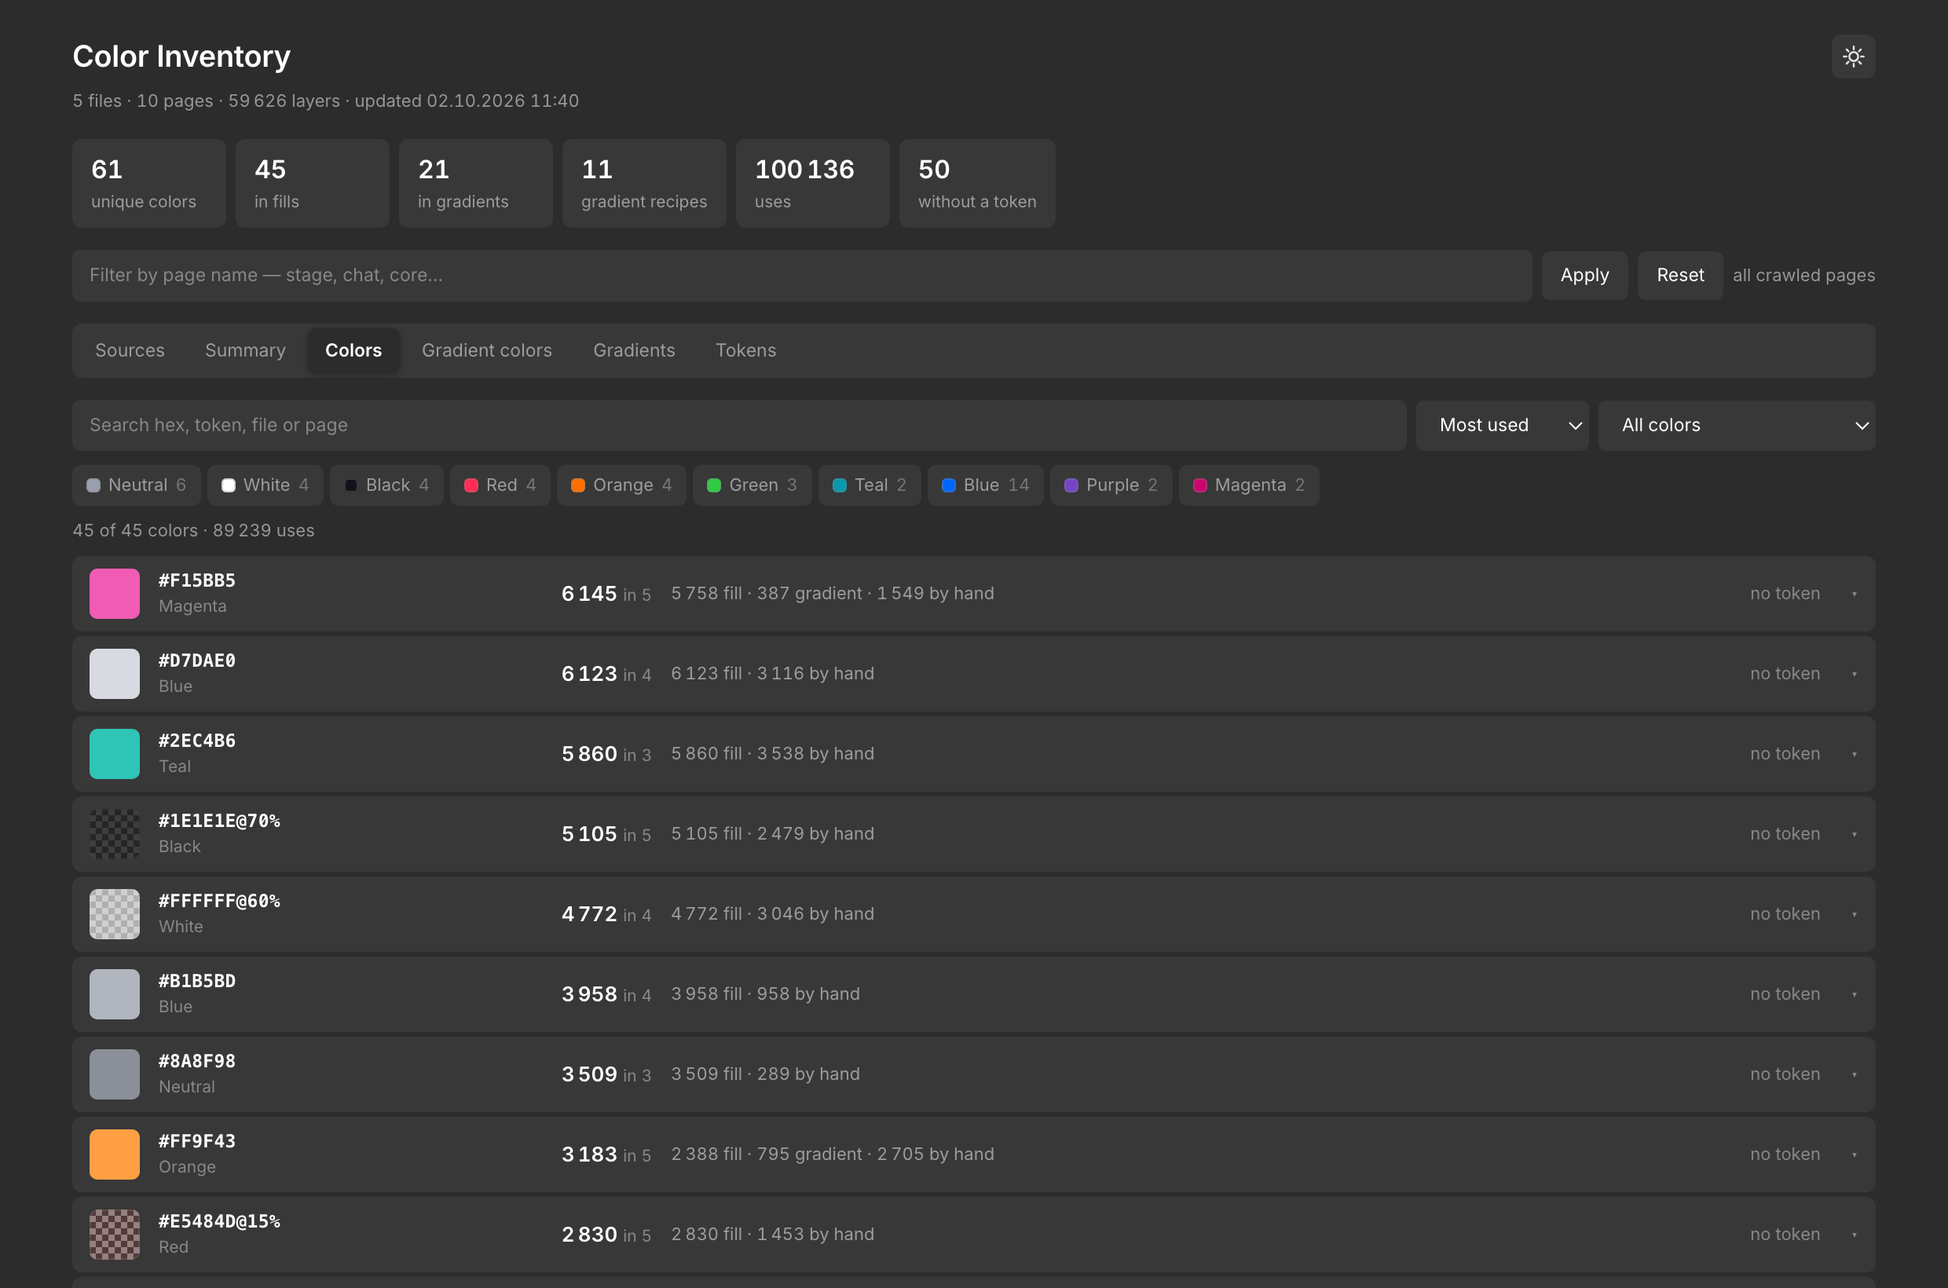
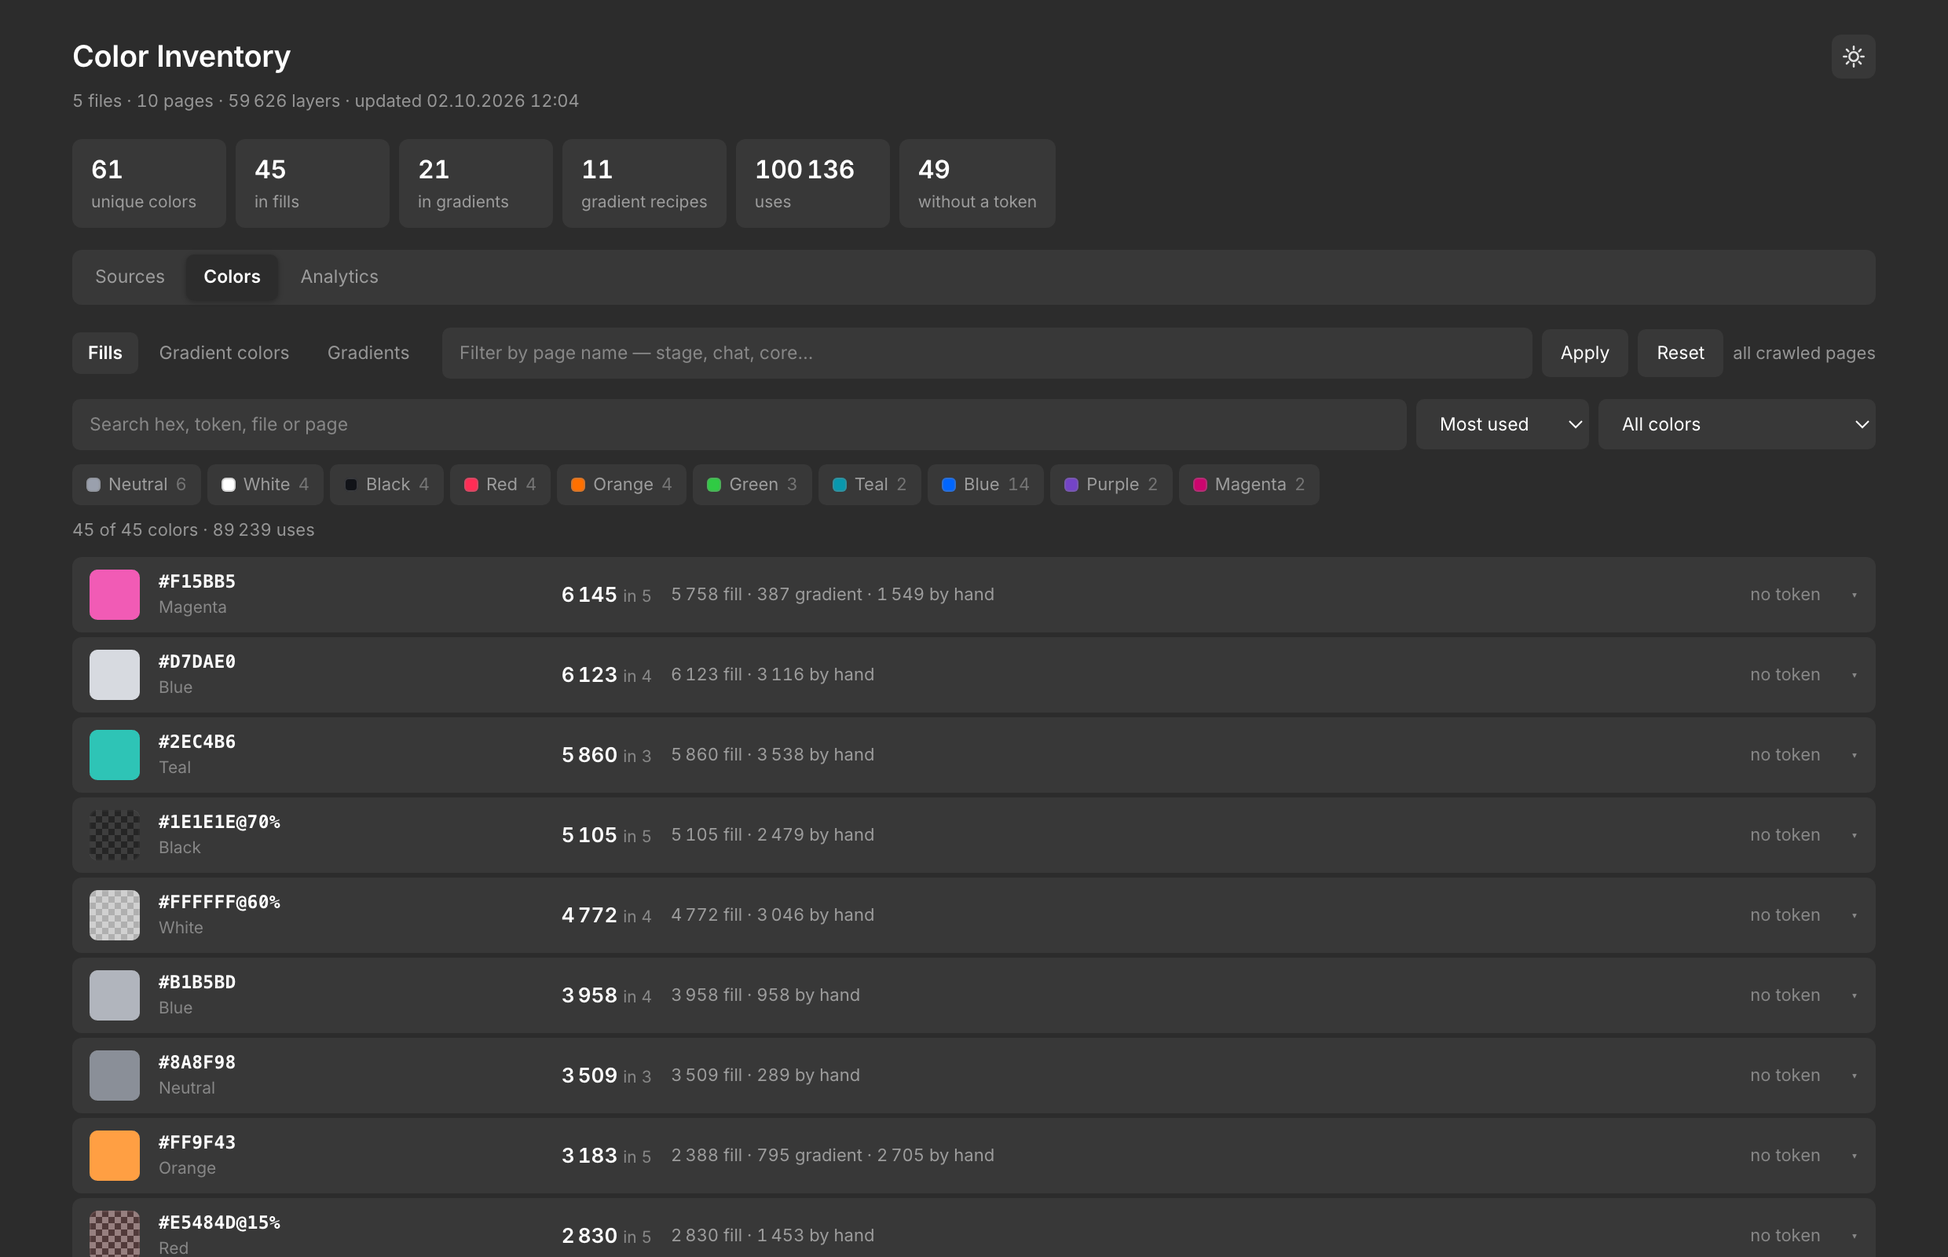
Two-level navigation: Sources / Colors / Analytics, with a stable layout

diff --git a/app.html b/app.html
@@ -69,6 +69,27 @@ h2{font-size:13px;font-weight:600;margin:24px 0 8px;color:var(--txt)}
 .tab:hover{color:var(--txt)}
 .tab.on{background:var(--bg);color:var(--txt);font-weight:600;box-shadow:var(--shadow)}
 .page{display:none}.page.on{display:block}
+/* Первый элемент раздела не должен добавлять свой верхний отступ:
+   иначе разделы начинаются на разной высоте и контент прыгает. */
+.page > :first-child{margin-top:0}
+
+/* Вторая полоса существует всегда, даже когда пустая: её высота зарезервирована,
+   поэтому при переключении верхних вкладок содержимое ниже не сдвигается. */
+.bar2{display:flex;gap:10px;align-items:center;flex-wrap:nowrap;
+  min-height:34px;margin-bottom:12px}
+.tabs.sub{background:none;padding:0;margin:0;flex:none;gap:2px}
+.tabs.sub .tab{font-size:11.5px;padding:5px 10px}
+.tabs.sub .tab.on{background:var(--btn);box-shadow:none}
+.pf{display:flex;gap:6px;align-items:center;flex:1;min-width:0}
+.pf input{flex:1;min-width:120px}
+.pf .note{margin:0;white-space:nowrap;overflow:hidden;text-overflow:ellipsis}
+/* Скрываем видимостью, а не display: место под фильтр остаётся занятым. */
+.bar2.nofilter .pf{visibility:hidden;pointer-events:none}
+
+/* Полоса групп и строка счётчика держат высоту: без этого перенос чипов
+   на вторую строку дёргал бы весь список. */
+.chips{min-height:26px;align-content:flex-start}
+.cnt{min-height:17px}
 
 input[type=search],input[type=text],select{
   background:var(--btn);border:1px solid transparent;color:var(--txt);
@@ -184,16 +205,18 @@ tbody tr:hover td{background:var(--btn)}
   <p class="sub" id="sub">Loading…</p>
   <div class="stats" id="stats"></div>
 
-  <div class="row1" style="margin:0 0 14px">
-    <input type="search" id="pagefilter" placeholder="Filter by page name — stage, chat, core…"
-           title="Limits every tab to pages whose name contains this text. Case-insensitive. Leave empty for all pages."
-           style="flex:1;min-width:240px">
-    <button class="b" id="pfapply">Apply</button>
-    <button class="b" id="pfreset">Reset</button>
-    <span class="note" id="pfnote" style="margin:0"></span>
-  </div>
-
   <div class="tabs" id="tabs"></div>
+
+  <div class="bar2" id="bar2">
+    <div class="tabs sub" id="subtabs"></div>
+    <div class="pf" id="pfbox">
+      <input type="search" id="pagefilter" placeholder="Filter by page name — stage, chat, core…"
+             title="Limits every tab to pages whose name contains this text. Case-insensitive. Leave empty for all pages.">
+      <button class="b" id="pfapply">Apply</button>
+      <button class="b" id="pfreset">Reset</button>
+      <span class="note" id="pfnote"></span>
+    </div>
+  </div>
 
   <div class="page" id="p-summary"></div>
 
@@ -221,7 +244,7 @@ tbody tr:hover td{background:var(--btn)}
     <div id="srclist"></div>
   </div>
 
-  <div class="page" id="p-colors">
+  <div class="page" id="p-fills">
     
     <div class="row1">
       <input type="search" id="q" placeholder="Search hex, token, file or page">
@@ -311,23 +334,52 @@ let D = null, S = null;
 // the Sources tab is removed and the crawl controls are not needed.
 const EMBEDDED = /*__DATA__*/ null;
 
-// Порядок по ходу работы: подключил источники → увидел итог → разобрал по частям → сверил с китом.
-const TABS = [['sources','Sources'],['summary','Summary'],['colors','Colors'],
-              ['gradcolors','Gradient colors'],['grads','Gradients'],['tokens','Tokens']];
-let tab = 'summary';
-$('#tabs').innerHTML = TABS.map(([id,l]) =>
-  `<button class="tab" data-t="${id}" data-label="${l}"><span>${l}</span></button>`).join('');
-$('#tabs').addEventListener('click', e => { const b = e.target.closest('.tab'); if (b) show(b.dataset.t); });
-function show(t){
-  tab = t;
-  // Адрес отражает вкладку: ссылку можно переслать, обновление страницы не сбрасывает её.
-  if (location.hash.slice(1) !== t) history.replaceState(null, '', '#' + t);
-  document.querySelectorAll('.tab').forEach(b => b.classList.toggle('on', b.dataset.t === t));
-  document.querySelectorAll('.page').forEach(p => p.classList.toggle('on', p.id === 'p' + '-' + t));
-  // Срез по страницам режет данные, а не настройки — на вкладке источников он лишний.
-  const pf = $('#pagefilter').closest('.row1');
-  if (pf) pf.style.display = (t === 'sources') ? 'none' : '';
+// Два уровня. Сверху — откуда берём, что смотрим, и аналитика.
+// Снизу — разрезы внутри верхнего раздела.
+const TOP = [['sources','Sources'], ['colors','Colors'], ['analytics','Analytics']];
+const SUB = {
+  sources:   [],
+  colors:    [['fills','Fills'], ['gradcolors','Gradient colors'], ['grads','Gradients']],
+  analytics: [['summary','Summary'], ['tokens','Tokens']],
+};
+// Какому верхнему разделу принадлежит каждая страница.
+const PARENT = {};
+for (const [top, subs] of Object.entries(SUB)) {
+  if (!subs.length) PARENT[top] = top;
+  for (const [id] of subs) PARENT[id] = top;
 }
+// На каких страницах срез по страницам имеет смысл.
+const FILTERABLE = new Set(['fills','gradcolors','grads','summary','tokens']);
+
+let page = 'sources';
+
+function renderTabs(){
+  $('#tabs').innerHTML = TOP.map(([id,l]) =>
+    `<button class="tab" data-top="${id}" data-label="${l}"><span>${l}</span></button>`).join('');
+}
+renderTabs();
+
+function show(p){
+  const top = PARENT[p] || 'sources';
+  page = p;
+  document.querySelectorAll('#tabs .tab').forEach(b => b.classList.toggle('on', b.dataset.top === top));
+  $('#subtabs').innerHTML = SUB[top].map(([id,l]) =>
+    `<button class="tab" data-p="${id}" data-label="${l}"><span>${l}</span></button>`).join('');
+  document.querySelectorAll('#subtabs .tab').forEach(b => b.classList.toggle('on', b.dataset.p === p));
+  document.querySelectorAll('.page').forEach(el => el.classList.toggle('on', el.id === 'p-' + p));
+  $('#bar2').classList.toggle('nofilter', !FILTERABLE.has(p));
+  // Адрес отражает страницу: ссылку можно переслать, обновление её не сбрасывает.
+  if (location.hash.slice(1) !== p) history.replaceState(null, '', '#' + p);
+}
+
+$('#tabs').addEventListener('click', e => {
+  const b = e.target.closest('.tab'); if (!b) return;
+  const top = b.dataset.top;
+  show(SUB[top].length ? SUB[top][0][0] : top);   // верхняя вкладка открывает свой первый разрез
+});
+$('#subtabs').addEventListener('click', e => {
+  const b = e.target.closest('.tab'); if (b) show(b.dataset.p);
+});
 
 async function api(path, body){
   const o = body ? {method:'POST', headers:{'Content-Type':'application/json'}, body:JSON.stringify(body)} : {};
@@ -663,19 +715,20 @@ async function poll(){
 (async () => {
   if (EMBEDDED) {
     // Shareable report: no sources, no crawling — data only.
-    document.querySelector('[data-t="sources"]').remove();
-    document.querySelector('#p-sources').remove();
-    const pf = document.querySelector('#pagefilter');
-    if (pf) pf.closest('.row1').remove();
+    // Источников и обхода в пересылаемом отчёте нет, срез по страницам тоже не нужен.
+    TOP.splice(TOP.findIndex(t => t[0] === 'sources'), 1);
+    delete SUB.sources; delete PARENT.sources;
+    renderTabs();
+    const box = document.querySelector('#p-sources'); if (box) box.remove();
+    const pf = document.querySelector('#pfbox'); if (pf) pf.remove();
     await loadData();
     const w = location.hash.slice(1);
-    show(TABS.some(([id]) => id === w) && w !== 'sources' ? w : 'summary');
+    show(PARENT[w] ? w : 'fills');
     return;
   }
   await loadData();
-  // Вкладка из адреса, иначе по состоянию: пустая установка открывается на источниках.
   const want = location.hash.slice(1);
-  show(TABS.some(([id]) => id === want) ? want : (D.stats.files ? 'summary' : 'sources'));
+  show(PARENT[want] ? want : (D.stats.files ? 'fills' : 'sources'));
   await poll(); setInterval(poll, 2500);
 })();
 </script>

diff --git a/demo/seed.py b/demo/seed.py
@@ -1,0 +1,96 @@
+# -*- coding: utf-8 -*-
+"""Fills out/ with made-up data so you can try the app without touching Figma.
+
+    python3 demo/seed.py && python3 app.py
+
+Everything here is invented: file names, page names, layer names, colours.
+Delete out/ afterwards to start clean.
+"""
+import json, os, random
+
+BASE = os.path.dirname(os.path.dirname(os.path.abspath(__file__)))
+OUT = BASE + "/out"
+random.seed(11)
+
+# Keys are deliberately not shaped like real Figma keys, so nobody mistakes
+# demo data for a real file and no scanner flags this file as a leak.
+FILES = [
+    ("Marketing site",  "demo-marketing-site", ["Stage 1 — Landing", "Stage 2 — Pricing"]),
+    ("Mobile app",      "demo-mobile-app", ["Stage 1 — Onboarding", "Stage 2 — Feed", "Stage 3 — Profile"]),
+    ("Design system",   "demo-design-system", ["Stage 1 — Foundations", "Stage 2 — Components"]),
+    ("Dashboard",       "demo-dashboard", ["Stage 1 — Overview", "Stage 2 — Reports"]),
+    ("Email templates", "demo-email-templates", ["Stage 1 — Transactional"]),
+]
+LAYERS = ["Button / Primary", "Card background", "Section title", "Divider", "Badge",
+          "Avatar ring", "Input border", "Nav item", "Chart bar", "Tooltip", "Icon",
+          "Table row", "Tag", "Progress track", "Footer link", "Hero panel", "Chip"]
+TOKENS = [("color/text/primary", "#1E1E1E"), ("color/text/secondary", "#6B7280"),
+          ("color/surface/base", "#FFFFFF"), ("color/surface/raised", "#F7F8FA"),
+          ("color/brand/primary", "#0C8CE9"), ("color/brand/hover", "#0A74C2"),
+          ("color/accent/success", "#14AE5C"), ("color/accent/warning", "#FF8A1F"),
+          ("color/accent/danger", "#E5484D"), ("color/border/subtle", "#E4E7EE"),
+          ("color/overlay/dim", "#000000@40%"), ("color/brand/muted", "#C7E2F8")]
+FLAT = [v for _, v in TOKENS] + [
+    "#2C2C2C", "#383838", "#444444", "#5A5F68", "#8A8F98", "#B1B5BD", "#D7DAE0", "#EBEBEB",
+    "#FAFAFA", "#FF5C5C", "#E8604C", "#FF9F43", "#FFC46B", "#FFD166", "#9BD17A", "#2EC4B6",
+    "#4CC9F0", "#2B9BD6", "#7B61FF", "#9B8CFF", "#B388EB", "#F15BB5", "#D64C9A",
+    "#FFFFFF@60%", "#FFFFFF@15%", "#000000@8%", "#1E1E1E@70%", "#6B7280@30%",
+    "#0C8CE9@12%", "#14AE5C@20%", "#E5484D@15%", "#3A3F47", "#C9CDD4"]
+GRAD_ONLY = ["#00BBF9", "#9B5DE5", "#06D6A0", "#EF476F", "#118AB2", "#073B4C", "#FFE066",
+             "#FF8FA3", "#7AE582", "#80FFDB", "#5E60CE", "#FF70A6", "#FFD6A5", "#BDB2FF", "#A0C4FF"]
+GRADS = [["#0C8CE9", "#7B61FF"], ["#FF9F43", "#FFE066"], ["#06D6A0", "#118AB2"],
+         ["#F15BB5", "#9B5DE5"], ["#FFFFFF", "#FFFFFF@0%"], ["#EF476F", "#FF8FA3", "#FFD6A5"],
+         ["#00BBF9", "#5E60CE", "#9B5DE5"], ["#073B4C", "#118AB2"], ["#7AE582", "#80FFDB"],
+         ["#BDB2FF", "#A0C4FF"], ["#FF70A6", "#FFD6A5"]]
+
+def nid(a, b):
+    return "%d:%d" % (a, b)
+
+def layers(n, pi, seed):
+    return [[nid(100 + pi, 1000 + seed * 9 + k), random.choice(LAYERS),
+             random.choice(["RECTANGLE", "FRAME", "TEXT", "ELLIPSE", "VECTOR"]),
+             random.choice(["fill", "stroke"])] for k in range(n)]
+
+os.makedirs(OUT, exist_ok=True)
+for fname, key, pages in FILES:
+    res = {"file": fname, "key": key, "filter": "stage", "pages": [],
+           "skipped": ["Cover", "Local components", "Archive"], "errors": [], "nodes": 0}
+    for pi, pname in enumerate(pages, 1):
+        colors, grads = {}, {}
+        nodes = random.randint(2400, 11000)
+        for ci, hexv in enumerate(random.sample(FLAT, random.randint(16, 26))):
+            flat = random.choice([random.randint(1, 9), random.randint(1, 9),
+                                  random.randint(12, 180), random.randint(200, 2400)])
+            colors[hexv] = {"flat": flat, "grad": 0, "raw": random.randint(0, flat),
+                            "ex": layers(min(flat, random.randint(2, 10)), pi, ci)}
+        for gi, stops in enumerate(random.sample(GRADS, random.randint(3, 5))):
+            n = random.randint(6, 260)
+            grads["→".join(stops)] = {
+                "n": n, "type": "GRADIENT_LINEAR",
+                "ex": [[nid(200 + pi, 2000 + gi * 5 + k), random.choice(LAYERS),
+                        random.choice(["fill", "stroke"])] for k in range(random.randint(2, 7))]}
+            for sv in stops:
+                e = colors.setdefault(sv, {"flat": 0, "grad": 0, "raw": 0, "ex": []})
+                e["grad"] += n
+                e["raw"] += n
+                if len(e["ex"]) < 6:
+                    e["ex"] += layers(2, pi, 500 + gi)
+        for gv in random.sample(GRAD_ONLY, random.randint(2, 5)):
+            e = colors.setdefault(gv, {"flat": 0, "grad": 0, "raw": 0, "ex": []})
+            n = random.randint(3, 90)
+            e["grad"] += n
+            e["raw"] += n
+            if not e["ex"]:
+                e["ex"] = layers(3, pi, 900)
+        res["pages"].append({"id": nid(1, pi), "name": pname, "nodes": nodes,
+                             "colors": colors, "grads": grads})
+        res["nodes"] += nodes
+    json.dump(res, open("%s/%s@stage.json" % (OUT, key), "w", encoding="utf-8"), ensure_ascii=False)
+
+json.dump({"variables": [{"name": n, "values": {"Light": v}, "collection": "Core"}
+                         for n, v in TOKENS]},
+          open(BASE + "/tokens.json", "w", encoding="utf-8"), ensure_ascii=False, indent=1)
+json.dump([{"key": k, "node": None, "name": n,
+            "link": "https://www.figma.com/design/" + k} for n, k, _ in FILES],
+          open(BASE + "/sources.json", "w", encoding="utf-8"), ensure_ascii=False, indent=1)
+print("Demo data written to out/. Run: python3 app.py")

diff --git a/README.ru.md b/README.ru.md
@@ -8,26 +8,6 @@
 
 [English version](README.md)
 
-![Вкладка Colors](docs/colors.png)
-
-*Каждый цвет: сколько раз применён, сколько из этого набрано руками и за каким
-токеном он стоит. Клик по строке — ссылки на конкретные слои.*
-
-<details>
-<summary>Ещё снимки</summary>
-
-**Gradients** — сами градиенты с превью каждого.
-
-![Вкладка Gradients](docs/gradients.png)
-
-**Summary** — вся картина в цифрах.
-
-![Вкладка Summary](docs/summary.png)
-
-</details>
-
-> На снимках выдуманные демо-данные, не реальный проект.
-
 ## Как запустить
 
 Два способа, любой:
@@ -52,6 +32,15 @@ localhost — наружу ничего не торчит.
 
   Создать: Figma → Settings → Security → Personal access tokens.
   `token.txt` лежит в `.gitignore` — в репозиторий не уедет.
+
+## Пощупать без Figma
+
+```bash
+python3 demo/seed.py && python3 app.py
+```
+
+Заполнит `out/` выдуманными файлами, страницами и цветами — можно походить по всему
+приложению, не подключая ничего настоящего. Чтобы начать с чистого листа, удали `out/`.
 
 ## Вкладки
 

diff --git a/README.md b/README.md
@@ -8,25 +8,7 @@ product*, *how many of them have no token behind them*, and *where to find them*
 
 [Русская версия](README.ru.md)
 
-![Colors tab](docs/colors.png)
-
-*Every colour, how often it is applied, how much of that is set by hand, and
-which token carries the same value. Click a row to get links to the layers.*
-
-<details>
-<summary>More screenshots</summary>
-
-**Gradients** — the recipes themselves, with a preview of each.
-
-![Gradients tab](docs/gradients.png)
-
-**Summary** — the whole picture in numbers.
-
-![Summary tab](docs/summary.png)
-
-</details>
-
-> Screenshots use made-up demo data, not a real project.
+![tabs: Summary, Sources, Colors, Gradient colors, Gradients, Tokens](docs/screenshot.png)
 
 ## What it does
 
@@ -77,6 +59,15 @@ It is read from the first place that has it:
 3. `~/.config/figma-colors/token`.
 
 `token.txt` is in `.gitignore` — it will not be committed.
+
+## Try it without Figma
+
+```bash
+python3 demo/seed.py && python3 app.py
+```
+
+That fills `out/` with made-up files, pages and colours so you can click through
+the whole app before pointing it at anything real. Delete `out/` to start clean.
 
 ## Use
 
